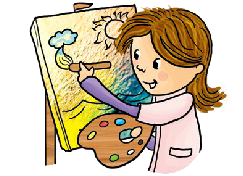
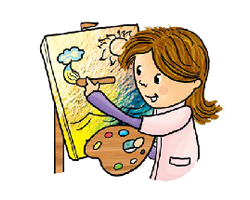
personajesAnim & imgs same size

diff --git a/js/u1a1.js b/js/u1a1.js
@@ -61,8 +61,7 @@ function initAssets(){
     imgGlobito = preload.getResult('glob');
     personajeSps = new createjs.SpriteSheet({
         images: [preload.getResult('per1'), preload.getResult('per2'), preload.getResult('per3'), preload.getResult('per4'), preload.getResult('per5')],
-        frames: {width: 360, height: 465, regX: 180, regY: 233},
-      
+        frames: {width: 250, height: 200, regX: 125, regY: 100},
     });  
     personajeAnim = new createjs.BitmapAnimation(personajeSps);
 }
@@ -78,6 +77,8 @@ function setStage(){
     personajeAnim.y = 100;
     personajeAnim.currentFrame = 0;
     
+    console.log(personajeAnim);
+
     stage.addChild(personajeAnim);
     stage.addChild(header);
     /*
